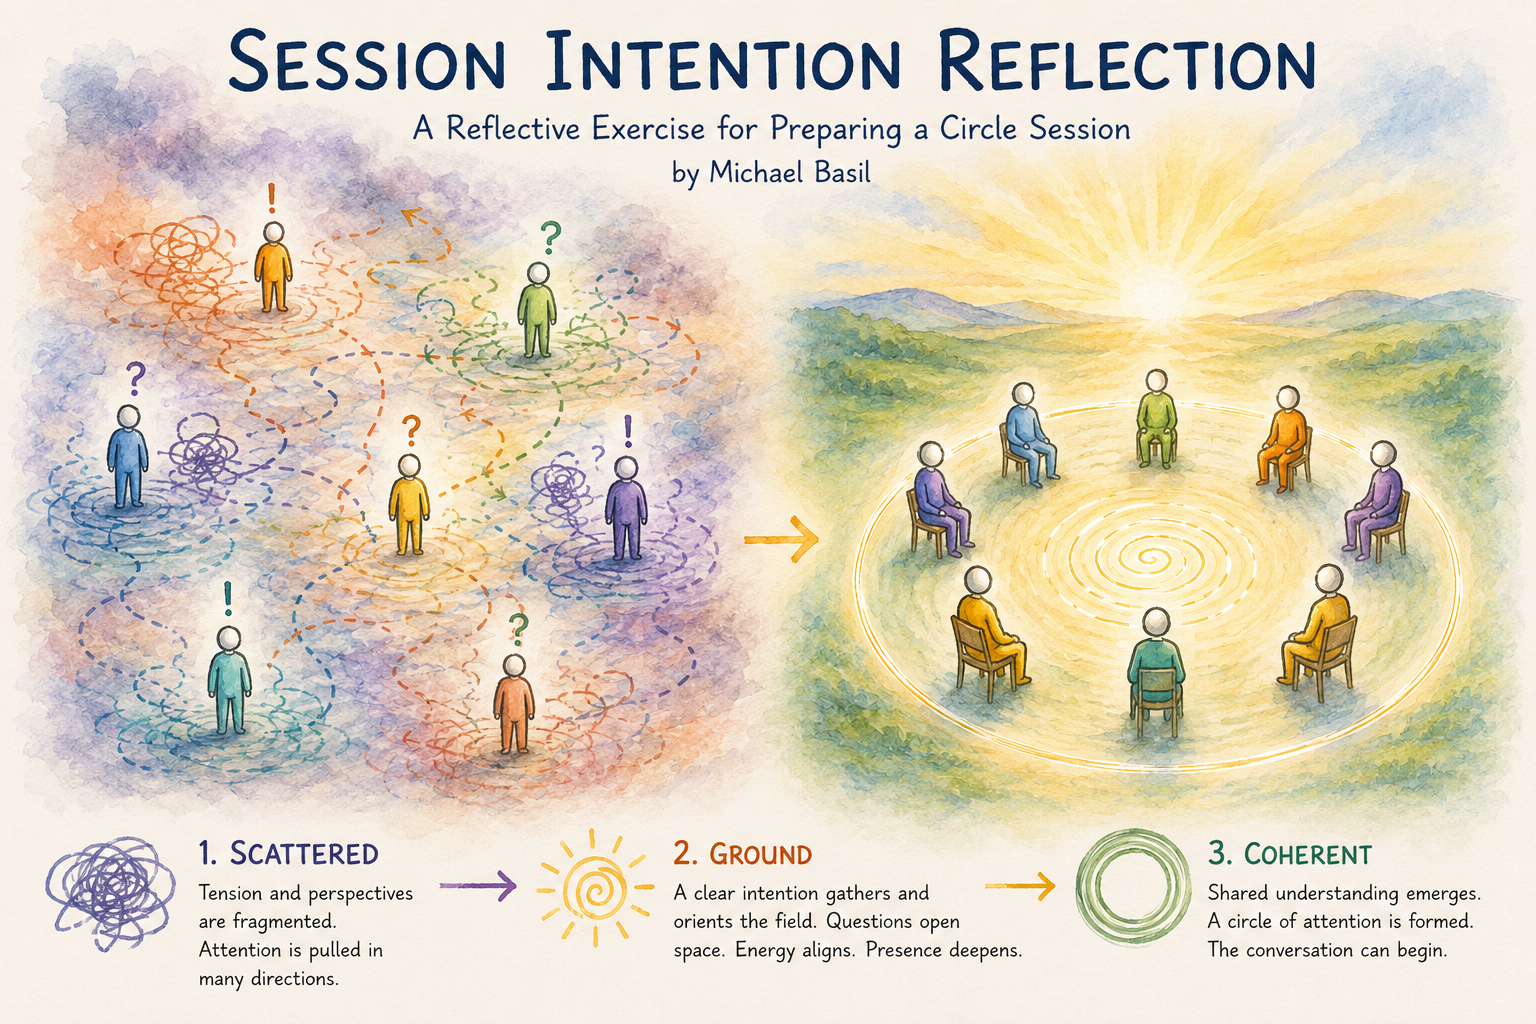
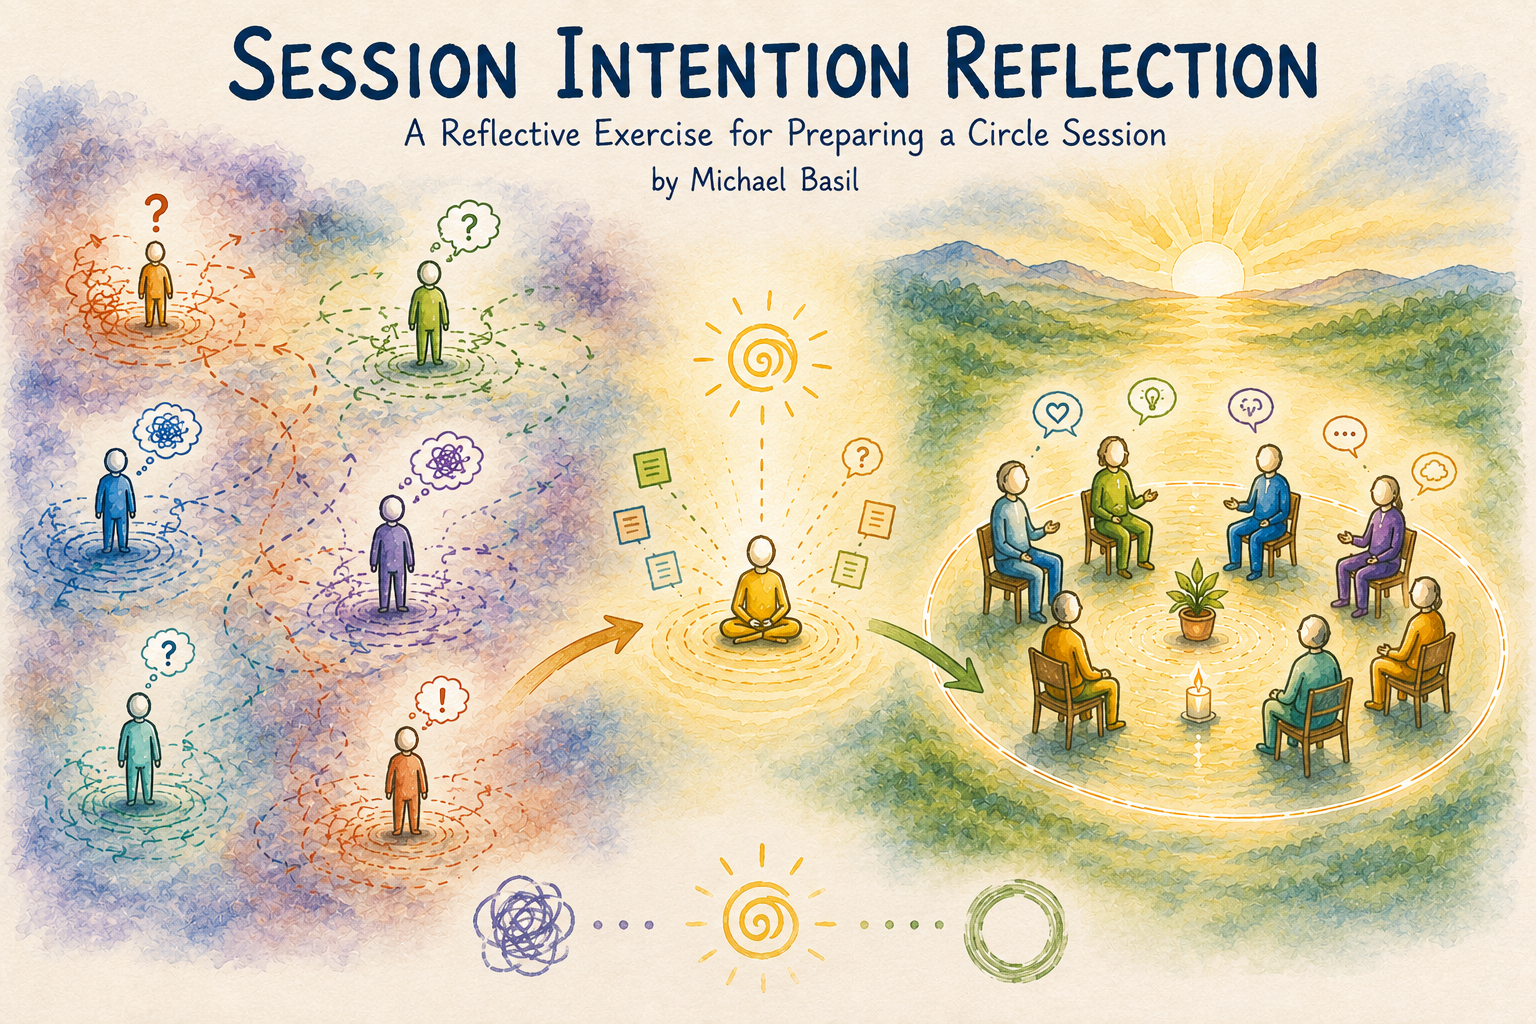
refactor: framing

diff --git a/method.md b/method.md
@@ -1,7 +1,7 @@
 ---
 layout: default
 title: What is Circle3?
-description: Circle3 is a pattern language for working with change when things are not yet taking root, supporting coherence in complex, fast-moving environments.
+description: Circle3 is a pattern language for how change takes hold in complex, fast-moving environments.
 permalink: /method/
 css_id: method
 ---
@@ -10,61 +10,52 @@ css_id: method
 
 ![Circle3](/images/method.png)
 
-*Circle3™* is a pattern language for working with change when things are not yet taking root.
+*Circle3™ is a pattern language for how change takes hold.*
 
-Every change effort has a small group of people responsible for making it real in practice.
+Change begins in a small working center—formal or informal—where a few people are responsible for making it real in practice.
 
-Sometimes this group is formal.  
-Sometimes it is informal.
+That center always exists.
 
-But it is always present.
+## When things fragment
 
-This is the working center where change actually happens.
-
-## When alignment breaks
-
-When that center is not aligned in how it is interpreting what is happening, coordination starts to break down.
+When that center is not aligned in what it sees, everything else fragments.
 
 Priorities compete.  
 Messages multiply.  
-Attention fragments.
+Attention disperses.  
+Meaning breaks apart.
 
 ## How Circle3 works
 
-Circle3 works by grounding this group in the same live reality they are trying to move forward.
+Circle3 aligns attention to what is actually happening—not what is assumed.
 
-Not in theory.  
-Not in abstraction.  
-But in what is unfolding right now.
+Not theory.  
+Not abstraction.  
+Only what is unfolding.
 
-## What changes over time
+## What shifts
 
-As this grounding strengthens, something shifts.
+Shared perception emerges.  
+Language converges.  
+Decisions begin to hold.  
+Fewer things need to be explained.
 
-A shared perception begins to form—people start seeing the same thing.  
-A shared language develops—they begin describing it in similar ways.  
-And decisions begin to hold instead of unraveling.
+## What becomes possible
 
-## When coherence emerges
+- Others can recognize what is emerging more easily  
+- They can decide when and how to engage  
+- It becomes easier to support what is forming without breaking it apart  
 
-The change becomes easier to recognize.
+## The pattern sets
 
-Not because it has been simplified.
+Circle3 works through two connected pattern sets:
 
-But because it has become consistent.
+- **The Moves** — what people do together to create coherence in action  
+- **The Lenses** — how people see what is happening more clearly  
 
-A clearer signal of what is actually happening begins to form.
+One shapes action.  
+The other enhances perception.
 
-## What becomes possible next
+👉 [Explore the moves](/moves/){: data-ga-event="learn_more" data-ga-label="method_to_moves"}
 
-When this becomes visible:
-
-- others can recognize what is emerging more easily  
-- they can decide when and how to engage  
-- and it becomes easier to sponsor and reinforce the change in a way that strengthens what is forming, rather than fragmenting it  
-
-## Unlocking the change
-
-There are three guiding moves in this pattern language that make this possible.
-
-👉 [Learn more](/moves/){: data-ga-event="learn_more" data-ga-label="method_to_moves"}
+👉 [Explore the lenses](/lenses/){: data-ga-event="learn_more" data-ga-label="method_to_lenses"}

diff --git a/index.md b/index.md
@@ -6,49 +6,47 @@ title: Circle3 | Make Change Clear and Aligned
 description: Circle3 helps leaders create coherence so change becomes clear, aligned, and easier to adopt—especially in complex, fast-moving environments like AI and transformation.
 ---
 
-# Frustrated by change that won’t take root?
+# Frustrated by change that won’t take hold?
 
 ![Feeling Overwhelmed by Constant Change?](/images/index.png)
 
 You’re driving something important—AI, new ways of working, infrastructure change.
 
-But it doesn’t land the way it should.
+But it doesn’t take hold.
 
-At times, everything feels like it’s moving at once.  
+Sometimes everything is moving, but nothing is landing.  
 Too many priorities. Constant shifting. No real traction.
 
-At other times, things slow down or stall.  
+Other times things slow down or stall.  
 Energy fades. Decisions don’t stick. Momentum disappears.
 
-Different symptoms. Same underlying experience:
+Different symptoms. Same experience:
 
-People are not operating from the same understanding of what is happening.
+People are not working from the same understanding of what is happening.
 
-And because of that, they respond differently.
-
-## How misalignment shows up
+## How it shows up
 
 Some push harder.  
-Some try to stabilize things.  
-Some try to bring people back together.  
-Some step back and rethink the direction entirely.
+Some try to stabilize.  
+Some try to reconnect.  
+Some step back to rethink.
 
 Each response makes sense on its own.
 
-But together, they create confusion.
+Together, they cancel each other out.
 
-## What’s actually happening
+## What’s actually going on
 
-What looks like overload, resistance, or slow adoption is often something simpler—and harder to see:
+What looks like overload, resistance, or slow adoption is often simpler:
 
-nothing is holding the situation together long enough for change to actually take root.
+Nothing is holding long enough for change to take root.
 
-Most change efforts try to fix this by scaling communication, alignment, or execution.
+Most systems try to solve this by adding more communication, more alignment, more process.
 
 But change doesn’t begin everywhere at once.
 
 ## It starts somewhere
 
-Circle3 creates that “somewhere it can actually start.”
+Circle3 creates a place where change can start to hold.
 
 👉 [Learn more](/method/){: data-ga-event="learn_more" data-ga-label="home_to_method"}

diff --git a/lenses/session.md b/lenses/session.md
@@ -31,8 +31,8 @@ A Circle session helps create the conditions for that kind of shared awareness.
 
 Before beginning, it can help to revisit two related reflections:
 
-- [Sense Making Reflection](/lenses/sense/){: data-ga-event="learn_more" data-ga-label="reflection_session_to_reflection_sense"} → how people may be interpreting the situation differently  
-- [Energy Awareness Reflection](/lenses/energy/){: data-ga-event="learn_more" data-ga-label="reflection_session_to_reflection_energy"} → how people may be showing up in relation to the situation  
+- [Sense Making Reflection](/lenses/sense/){: data-ga-event="learn_more" data-ga-label="lenses_session_to_lenses_sense"} → how people may be interpreting the situation differently  
+- [Energy Awareness Reflection](/lenses/energy/){: data-ga-event="learn_more" data-ga-label="lenses_session_to_lenses_energy"} → how people may be showing up in relation to the situation  
 
 Together, these lenses help reveal how the conversation may need to be held.
 
@@ -54,9 +54,9 @@ Where do you sense genuine interest, concern, energy, or readiness to engage?
 
 ### 2. How are people interpreting and responding to the situation?
 
-Using the [Sense Making Reflection](/lenses/sense/){: data-ga-event="learn_more" data-ga-label="reflection_session_to_reflection_sense"}, where are perspectives aligned or diverging?
+Using the [Sense Making Reflection](/lenses/sense/){: data-ga-event="learn_more" data-ga-label="lenses_session_to_lenses_sense"}, where are perspectives aligned or diverging?
 
-Using the [Energy Awareness Reflection](/lenses/energy/){: data-ga-event="learn_more" data-ga-label="reflection_session_to_reflection_energy"}, what energies are most present? What may be missing?
+Using the [Energy Awareness Reflection](/lenses/energy/){: data-ga-event="learn_more" data-ga-label="lenses_session_to_lenses_energy"}, what energies are most present? What may be missing?
 
 How might these dynamics shape the conversation?
 
@@ -125,4 +125,4 @@ This can help strengthen both the intention of the session and the conditions be
 
 If you’d like to go further with this work or explore additional dimensions, you’re welcome to connect.
 
-👉 [Let’s connect](/contact/){: data-ga-event="contact_click" data-ga-label="reflection_session_to_connect"}
+👉 [Let’s connect](/contact/){: data-ga-event="contact_click" data-ga-label="lenses_session_to_connect"}

diff --git a/lenses/index.md b/lenses/index.md
@@ -30,7 +30,7 @@ Complex — probe, adapt, and learn as they go.
 Chaotic — act first to stabilize disruption.  
 Confused — no shared frame is holding the situation together.
 
-👉 [Learn more](/lenses/sense/){: data-ga-event="learn_more" data-ga-label="reflection_index_to_sense"}
+👉 [Learn more](/lenses/sense/){: data-ga-event="learn_more" data-ga-label="lenses_index_to_sense"}
 
 ## Energy Awareness Reflection
 
@@ -43,7 +43,7 @@ Organizers try to stabilize.
 Collaborators try to reconnect.  
 Visionaries step back and reframe.  
 
-👉 [Learn more](/lenses/energy/){: data-ga-event="learn_more" data-ga-label="reflection_index_to_energy"}
+👉 [Learn more](/lenses/energy/){: data-ga-event="learn_more" data-ga-label="lenses_index_to_energy"}
 
 ## Session Intention Reflection
 
@@ -56,4 +56,4 @@ Tensions are starting to surface.
 Questions are beginning to form.  
 Support needs are becoming clearer.  
 
-👉 [Learn more](/lenses/session/){: data-ga-event="learn_more" data-ga-label="reflection_index_to_session"}
+👉 [Learn more](/lenses/session/){: data-ga-event="learn_more" data-ga-label="lenses_index_to_session"}

diff --git a/moves/balance.md b/moves/balance.md
@@ -168,13 +168,13 @@ Developing the ability to balance a conversation requires both reflection and ex
 
 Understand how different interpretations of a situation shape coordination, decision-making, and alignment—and where misalignment emerges when people are operating from different sense-making frames.
 
-👉 [Explore](/lenses/sense/){: data-ga-event="learn_more" data-ga-label="balance_to_reflection_sense"}
+👉 [Explore](/lenses/sense/){: data-ga-event="learn_more" data-ga-label="balance_to_lenses_sense"}
 
 ### Energy Awareness Reflection
 
 Build awareness of how relational energy is showing up in your conversations—and how your interventions influence attention, tension, and participation.
 
-👉 [Explore](/lenses/energy/){: data-ga-event="learn_more" data-ga-label="balance_to_reflection_energy"}
+👉 [Explore](/lenses/energy/){: data-ga-event="learn_more" data-ga-label="balance_to_lenses_energy"}
 
 ### Two Sides Reflection
 

diff --git a/moves/reconcile.md b/moves/reconcile.md
@@ -154,7 +154,7 @@ Use this exercise when preparing for a Circle session where you want to be more 
 
 It helps translate what is emerging in the work into a clear, grounded intention for that specific session.
 
-👉 [Explore](/lenses/session/){: data-ga-event="learn_more" data-ga-label="reconcile_to_reflection_session"}
+👉 [Explore](/lenses/session/){: data-ga-event="learn_more" data-ga-label="reconcile_to_lenses_session"}
 
 ## Explore in Your Context
 

diff --git a/lenses/sense.md b/lenses/sense.md
@@ -168,4 +168,4 @@ And invite the other person, group, or team to complete the same reflection from
 
 If you’d like to go further with this work or explore additional dimensions, you’re welcome to connect.
 
-👉 [Let’s connect](/contact/){: data-ga-event="contact_click" data-ga-label="reflection_sense_to_connect"}
+👉 [Let’s connect](/contact/){: data-ga-event="contact_click" data-ga-label="lenses_sense_to_connect"}

diff --git a/lenses/energy.md b/lenses/energy.md
@@ -136,4 +136,4 @@ And invite the person to complete the same reflection from their side.
 
 If you’d like to go further with this work or explore additional dimensions, you’re welcome to connect.
 
-👉 [Let's connect](/contact/){: data-ga-event="contact_click" data-ga-label="reflection_energy_to_connect"}
+👉 [Let's connect](/contact/){: data-ga-event="contact_click" data-ga-label="lenses_energy_to_connect"}
